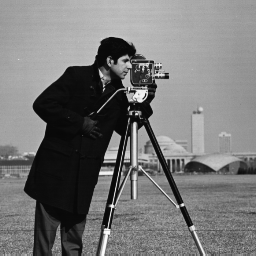
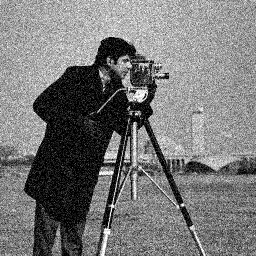
tranfer

diff --git a/Lab01/3.2/e3.m b/Lab01/3.2/e3.m
@@ -4,7 +4,7 @@ X1 = X1/255
 
 p = 0.05
 X3 = imnoise(X1,'salt & pepper',p)
-imwrite(X1,'./e3.png')
+imwrite(X3,'./e3.png')
 
 p= 0.01
 X4 = imnoise(X1,'salt & pepper',p)

diff --git a/Lab01/3.2/e2.m b/Lab01/3.2/e2.m
@@ -5,7 +5,7 @@ X1 = X1/255
 m = 0
 v = 0.01
 X2 = imnoise(X1,'gaussian',m,v)
-imwrite(X1,'./3.2/e2.png')
+imwrite(X2,'e2.png')
 
 m = 0
 v = 0.05
